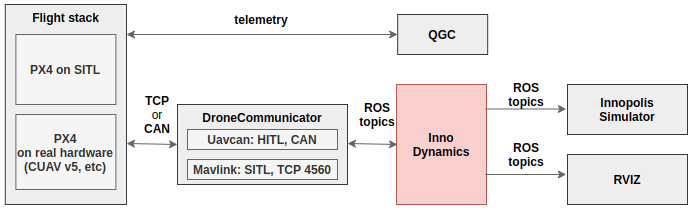
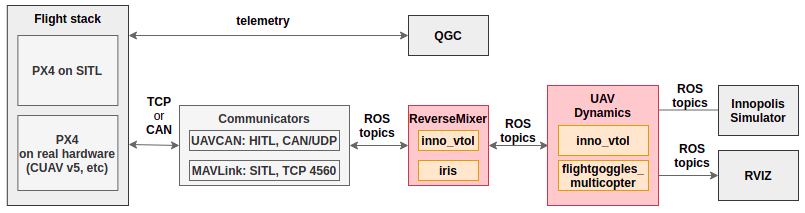
update readme

diff --git a/README.md b/README.md
@@ -12,20 +12,29 @@ So, Inno VTOL dynamics simulation allows to run simulation in both SITL and `uav
 
 # Design
 
-Innopolis VTOL dynamics simulator consist of following components:
+Innopolis VTOL dynamics simulator is divided into modules to make it possibly simply change airframe, dynamics and use either default mavlink or suggested uavcan mode.
+
+You may write your own `dynamics`, `airframe`, use any `vehicle` (to simulate PX4 flight stack in SITL) in both UAVCAN HITL and SITL modes. At that moment this simulator supports following features:
+
+| № | dynamics | airframe | Vehicle (for SITL) |
+| - | -------- | -------- | ------------------ |
+| 1 | inno_vtol | inno_standard_vtol [(13070)](https://github.com/PonomarevDA/Firmware/blob/px4_v1.12.1_inno_vtol_dynamics/ROMFS/px4fmu_common/init.d/airframes/13070_innopolis_vtol) | innopolis_vtol [(1050)](https://github.com/PonomarevDA/Firmware/blob/px4_v1.12.1_inno_vtol_dynamics/ROMFS/px4fmu_common/init.d-posix/airframes/1050_innopolis_vtol)    |
+| 2 | [flightgoggles_multicopter](https://github.com/mit-aera/FlightGoggles)    | iris [(10016)](https://github.com/PonomarevDA/Firmware/blob/px4_v1.12.1_inno_vtol_dynamics/ROMFS/px4fmu_common/init.d/airframes/10016_3dr_iris)               | iris [(10016)](https://github.com/PonomarevDA/Firmware/blob/px4_v1.12.1_inno_vtol_dynamics/ROMFS/px4fmu_common/init.d-posix/airframes/10016_iris) |
+
+The simulator is divided into following components:
 
 1. UAV dynamics simulator based on `Innopolis VTOL` (quadcopter and plane dynamics with aerodynamics coefficients)
 2. Communication with `PX4` flight stack in `HITL (via UAVCAN)` and `SITL (via MAVLink)` modes
-3. Bridge for interaction with `Inno Simulator` through ROS.
-
+3. Bridge for interaction with `Inno Simulator` through ROS
+4. `Reverse mixer`
 
 The design of simulator shown below.
 
 ![scheme](img/scheme.png?raw=true "scheme")
 
-As you can see, InnoDynamics is a separate ROS node that perform communication via topics and it doesn't matter which type of communication with flight stack you are using.
+As you can see, UavDynamics is a separate ROS node that performs communication via topics and it doesn't matter which type of communication with flight stack you are using.
 
-To communicate with flight stack via [px4 drone communicator]() it publishes and subscribes on following topics:
+To communicate with flight stack via communicator it publishes and subscribes on following topics:
 
 | № | Type         | topic                      | msg                                   |
 | - | ------------ | -------------------------- | ------------------------------------- |
@@ -48,33 +57,17 @@ To work in pair with [InnoSimulator](https://github.com/inno-robolab/InnoSimulat
 
 # Installation and building:
 
-At first, it's assumed that you are using Ubuntu 18.04 with installed ROS and created catkin_ws. 
+It's assumed that you are using Ubuntu 18.04 with installed ROS and created catkin_ws. 
 
 The whole system required several packages.
 
 **1. Inno Dynamics**
 
-Clone [this package](https://github.com/InnopolisAero/innopolis_vtol_dynamics), [timed_roslaunch](https://github.com/MoriKen254/timed_roslaunch.git) that allows to run nodes with delay from launch file and [geographiclib_conversions](https://github.com/PonomarevDA/geographiclib_conversions) package:
-
-```
-git clone https://github.com/InnopolisAero/innopolis_vtol_dynamics.git
-git clone https://github.com/MoriKen254/timed_roslaunch.git
-git clone https://github.com/PonomarevDA/geographiclib_conversions.git
-```
-
-Then install python packages:
-
-```
-cd innopolis_vtol_dynamics
-pip install -r requirements
-```
-
-And download `wmm2020` from [here](https://geographiclib.sourceforge.io/html/magnetic.html) and put them into corresponding folder.
+Clone this repository with submodules and follow the instruction from [Dockerfile](Dockerfile).
 
 **2. (optional) PX4 Autopilot**
 
-You need it only if you want to work in SITL mode or if you want to manually build PX4 Firmware and upload it on your hardware.
-If you need only SITL and your autopilot is ready, you can avoid this step.
+You need [following version of PX4 Autopilot](https://github.com/PonomarevDA/Firmware/tree/px4_v1.12.1_inno_vtol_dynamics/ROMFS/px4fmu_common/init.d/airframes).
 
 For installation use official instruction and [this version of PX4 Autopilot](https://github.com/InnopolisAero/Inno_PX4_Firmware/tree/inno_dynamics).
 
@@ -82,15 +75,15 @@ To build either in SITL or in TRUE HITL mode run:
 
 ```
 cd Firmware
-git checkout inno_dynamics
-make clean
-make distclean
+git checkout px4_v1.12.1_inno_vtol_dynamics
+git submodule update --init --recursive && make clean && make distclean
 ```
 
 Then for SITL mode:
 
 ```
-DONT_RUN=1 make px4_sitl gazebo_standard_vtol
+DONT_RUN=1 make px4_sitl gazebo_innopolis_vtol
+DONT_RUN=1 make px4_sitl gazebo_iris
 ```
 
 And for HITL mode for Cuav V5+ type line below. If you use another hardware, read the [PX4 doc](https://dev.px4.io/master/en/setup/building_px4.html) for details.
@@ -108,14 +101,7 @@ export ROS_PACKAGE_PATH=$ROS_PACKAGE_PATH:~/Firmware
 export ROS_PACKAGE_PATH=$ROS_PACKAGE_PATH:~/Firmware/Tools/sitl_gazebo
 ```
 
-**3. Drone communicator**
-
-This package establishes communication between flight stack and dynamics, it also required `mavlink` and `mavros` packages which could be installed while PX4 Autopilot installation. As alternative way you can install them using `apt`.
-
-Use instruction from `drone_communicators repo`. It's preaty simple. 
-
-
-**4. InnoSimulator**
+**3. InnoSimulator**
 
 InnoSimulator is a photorealistic simulator.
 
@@ -123,44 +109,32 @@ To use it you should install [inno_sim_interface](https://github.com/InnopolisAe
 
 Use branch `uavcan` in `inno_sim_interface` repository.
 
-**Building**
+**4. Building**
 Build all by typing `./catkin_build.sh` from `InnoDynamics` package.
 
+# Usage example
 
-# Usage
-
-You can run it in 2 ways:
-- sitl simulation using MAVLink,
-- hitl simulation using UAVCAN.
-
-1. (optional). If you want to use HITL mode, you need to initialy connect UAVCAN sniffer with your PC and PX4 autopilot and setup slcan.
-
+1. Run any of `scripts/start*` scripts.
+If you run `hitl` script, it will automatically attached slcan based on your serial port (if sniffer is connected).
+Example:
 ```bash
-./communicators/drone_communicators/scripts/create_slcan.sh
+./scripts/start_hitl_inno_vtol.sh
 ```
+2. Run QGC
+3. Setup your vehicle
+- Run QGC and load correposponded [params](uav_dynamics/inno_vtol_dynamics/config/) into vehicle
+- Restart your vehicle and QGC
+- Note: sometimes from the first attempt params is not loaded correctly, so you may try it twice
+ 
+![usage_load_params](img/usage_load_params.png?raw=true "usage_load_params")
 
-This script requires sudo. It will load slcan module into your linux kernel and create virtual can. It means it will not work neither inside docker container without `--net=host` nor in github workflow.
+4. Check correspondences of your airframe and that vehicle is `Ready To Fly`
 
-2. Run dymamics, communicator module (and PX4 flight stack in SITL mode) using either `hitl.launch` or `sitl.launch`:
+![usage_check_airframe](img/usage_check_airframe.png?raw=true "usage_check_airframe")
 
-```bash
-roslaunch innopolis_vtol_dynamics hitl.launch
-```
+5. (optional) Visualization using InnoSimulator
 
-These launch files have following optional parameters:
-- vehicle:=standard_vtol - it allows to choose one of 2 vehicles: standard_vtol (by default, it means Innopolis VTOL) and iris
-- run_rviz:=false - it allows to run rviz to visualize orientation, forces and moments (it is turned off by default)
-- run_inno_sim_bridge:=true - run bridge between dynamics and InnoSimulator
-
-3. Run QGroundControl for controlling and monitoring flight. If your PX4 autopilot parameters are not specified yet, this is right time for doing it. Also at this step you should check version of PX4 Firmware and if it is not fit you, upload correct version.
-
-```bash
-~/software/qgroundcontrol/QGroundControl.AppImage
-```
-
-4. (optional) Visualization using InnoSimulator
-
-If you set parameter `run_inno_sim_bridge:=true` or leave it by default, you will only need to type something loke that:
+If you set parameter `run_inno_sim_bridge:=true` or leave it by default, you will only need to type something like that:
 
 ```bash
 roscd inno_sim_interface/cfg
